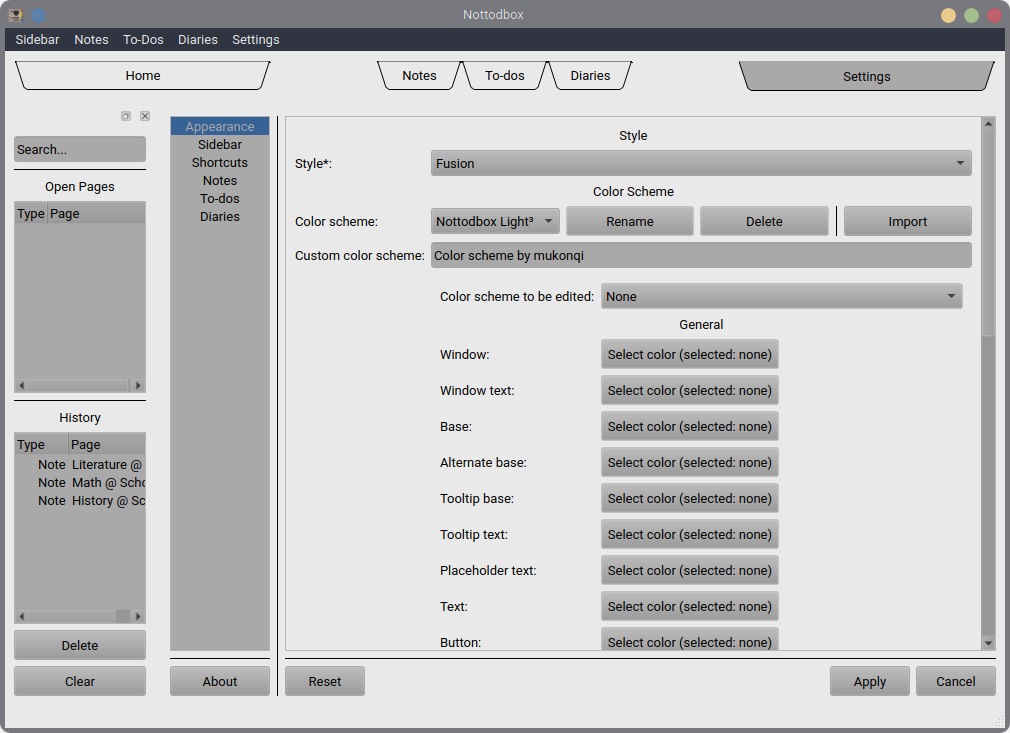
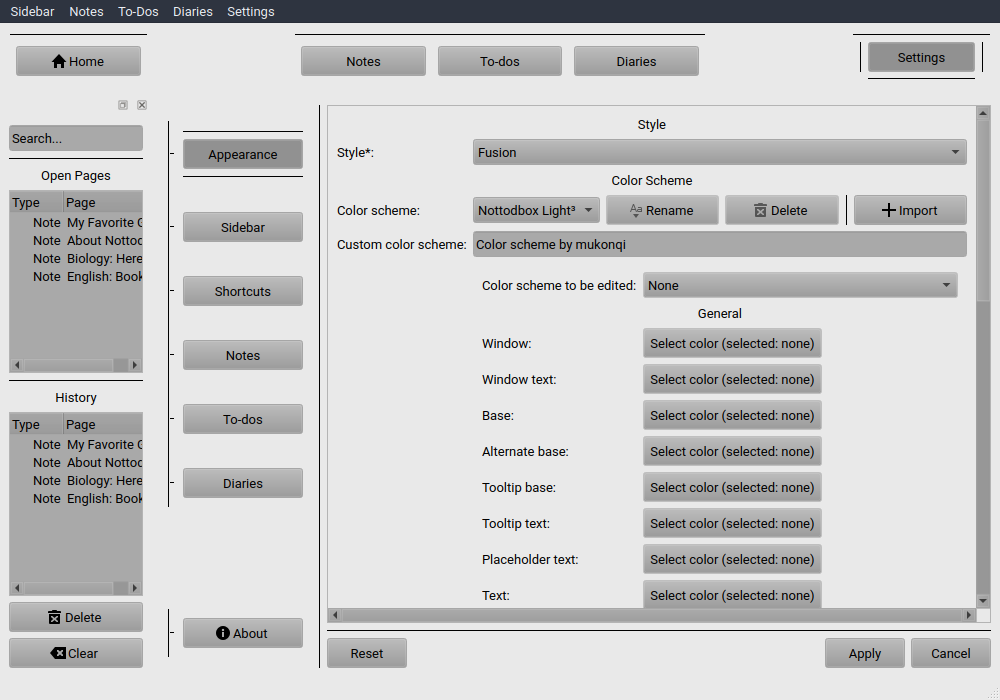
Make a screenshot helper

diff --git a/.github/scripts/screenshot.py b/.github/scripts/screenshot.py
@@ -1,0 +1,104 @@
+import os
+import sys
+import shutil
+import datetime
+from PySide6.QtCore import QSettings, QProcess
+
+sys.path.insert(1, os.path.join(os.path.dirname(os.path.dirname(os.path.dirname(__file__))), "nottodbox"))
+
+from consts import USER_DATABASES_DIR # type: ignore
+
+
+os.makedirs(USER_DATABASES_DIR, exist_ok=True)
+
+for file in os.listdir(USER_DATABASES_DIR):
+    file = os.path.join(USER_DATABASES_DIR, file)
+    
+    shutil.move(file, f"{file}.bak")
+    
+    
+from notes import NotesDB # type: ignore
+from todos import TodosDB # type: ignore
+from diaries import DiariesDB # type: ignore
+
+
+notes = [("My Favorite Games", "Blog"),
+         ("About Nottodbox - A Life Changer", "Blog"),
+         ("Biology: Hereditary Diseases", "School Projects"),
+         ("English: Book Report", "School Homeworks")]
+
+notesdb = NotesDB()
+
+notesdb.createParent("Blog")
+notesdb.createParent("School Projects")
+notesdb.createParent("School Homeworks")
+
+for name, table in notes:
+    notesdb.createChild(name, table)
+
+
+todosdb = TodosDB()
+
+todosdb.createParent("Nottodbox")
+todosdb.createChild("Make a custom tab bar for main window and settings", "Nottodbox")
+todosdb.createChild("Make a screenshot helper", "Nottodbox")
+todosdb.createChild("Make a page grid helper", "Nottodbox")
+todosdb.changeStatus("Make a screenshot helper", "Nottodbox")
+todosdb.changeStatus("Make a custom tab bar for main window and settings", "Nottodbox")
+
+
+diariesdb = DiariesDB()
+
+diariesdb.createChild(datetime.date.today().strftime("%d/%m/%Y"))
+diariesdb.saveChild("Hello my dear diary!\nI'm good, because writing diaries can make people happy.\nSee you tomorrow!", "", False, datetime.date.today().strftime("%d/%m/%Y"))
+
+
+settings = QSettings("io.github.mukonqi", "nottodbox")
+geometry = settings.value("mainwindow/geometry")
+state = settings.value("mainwindow/state")
+settings.setValue("mainwindow/geometry", "")
+settings.setValue("mainwindow/state", "")
+
+
+from __init__ import Application
+
+
+application = Application(sys.argv)
+list(application.mainwindow.settings.tabwidget.pages.keys())[0].widget().styles_combobox.setCurrentIndex(list(application.mainwindow.settings.tabwidget.pages.keys())[0].widget().styles_combobox.findText("Fusion"))
+application.setStyle("Fusion")
+list(application.mainwindow.settings.tabwidget.pages.keys())[0].widget().color_schemes_combobox.setCurrentIndex(list(application.mainwindow.settings.tabwidget.pages.keys())[0].widget().color_schemes_combobox.findText("Nottodbox Light³"))
+list(application.mainwindow.settings.tabwidget.pages.keys())[0].widget().loadPalette()
+application.exec()
+
+application.mainwindow.home.todos.expandAll()
+application.mainwindow.home.notes.expandAll()
+application.mainwindow.grab().save(os.path.join(os.path.dirname(os.path.dirname(__file__)), "images", "home.png"))
+
+application.mainwindow.notes.home.treeview.expandAll()
+for name, table in notes:
+    application.mainwindow.notes.home.child_options.open(False, name, table)
+application.mainwindow.notes.setCurrentIndex(0)
+application.mainwindow.grab().save(os.path.join(os.path.dirname(os.path.dirname(__file__)), "images", "notes.png"))
+
+application.mainwindow.tabwidget.setCurrentPage(2)
+application.mainwindow.todos.treeview.expandAll()
+application.mainwindow.grab().save(os.path.join(os.path.dirname(os.path.dirname(__file__)), "images", "todos.png"))
+
+application.mainwindow.tabwidget.setCurrentPage(3)
+application.mainwindow.grab().save(os.path.join(os.path.dirname(os.path.dirname(__file__)), "images", "diaries.png"))
+
+application.mainwindow.tabwidget.setCurrentPage(4)
+application.mainwindow.grab().save(os.path.join(os.path.dirname(os.path.dirname(__file__)), "images", "settings.png"))
+
+
+settings.setValue("mainwindow/geometry", geometry)
+settings.setValue("mainwindow/state", state)
+
+for file in os.listdir(USER_DATABASES_DIR):
+    if file.endswith(".bak"):
+        file = os.path.join(USER_DATABASES_DIR, file)
+    
+        shutil.move(file, file.removesuffix(".bak"))
+        
+
+sys.exit(0)

diff --git a/nottodbox/__init__.py b/nottodbox/__init__.py
@@ -76,28 +76,29 @@ class Application(QApplication):
         self.setDesktopFileName(USER_DESKTOP_FILE if USER_DESKTOP_FILE_FOUND else DESKTOP_FILE)
         self.setWindowIcon(QIcon.fromTheme(APP_ID, QIcon(ICON_FILE)))
         
-        window = MainWindow()
+        self.mainwindow = MainWindow()
         
         if args.index:
-            window.tabwidget.setCurrentPage(args.index - 1)
+            self.mainwindow.tabwidget.setCurrentPage(args.index - 1)
         
         elif args.page:
             if args.page == _("Home"):
-                window.tabwidget.setCurrentPage(0)
+                self.mainwindow.tabwidget.setCurrentPage(0)
             
             elif args.page == __("Notes"):
-                window.tabwidget.setCurrentPage(1)
+                self.mainwindow.tabwidget.setCurrentPage(1)
                 
             elif args.page == __("To-Dos"):
-                window.tabwidget.setCurrentPage(2)
+                self.mainwindow.tabwidget.setCurrentPage(2)
                 
             elif args.page == __("Diaries"):
-                window.tabwidget.setCurrentPage(3)
+                self.mainwindow.tabwidget.setCurrentPage(3)
                 
             elif args.page == __("Settings"):
-                window.tabwidget.setCurrentPage(4)
+                self.mainwindow.tabwidget.setCurrentPage(4)
                 
 
-application = Application(sys.argv)
+if __name__ == "__main__":
+    application = Application(sys.argv)
 
-sys.exit(application.exec())
+    sys.exit(application.exec())

diff --git a/nottodbox/todos.py b/nottodbox/todos.py
@@ -16,6 +16,7 @@
 # along with Nottodbox.  If not, see <https://www.gnu.org/licenses/>.
 
 
+import types
 import datetime
 from gettext import gettext as _
 from PySide6.QtCore import Slot
@@ -38,12 +39,14 @@ class TodosDB(DBForLists):
         if status == "completed":
             newstatus = "uncompleted"
             
-            self.widget.child_items[(name, table)][2].setText(_("Not completed yet"), name) 
+            if self.widget == types.UnionType:
+                self.widget.child_items[(name, table)][2].setText(_("Not completed yet"), name) 
         
         elif status == "uncompleted": 
             newstatus = "completed"
             
-            self.widget.child_items[(name, table)][2].setText(date, name) 
+            if self.widget == types.UnionType:
+                self.widget.child_items[(name, table)][2].setText(date, name) 
             
         self.cur.execute(
             f"update '{table}' set status = ?, completion = ? where name = ?", (newstatus, date, name))
@@ -115,7 +118,8 @@ class TodosDB(DBForLists):
             if table == "__main__":
                 date = self.getModification(name, table)
                 
-                self.widget.table_items[name][2].setText(date, name)
+                if self.widget == types.UnionType:
+                    self.widget.table_items[name][2].setText(date, name)
                 
             return True
         

diff --git a/nottodbox/notes.py b/nottodbox/notes.py
@@ -16,6 +16,7 @@
 # along with Nottodbox.  If not, see <https://www.gnu.org/licenses/>.
 
 
+import types
 import datetime
 from gettext import gettext as _
 from PySide6.QtCore import Slot
@@ -111,11 +112,12 @@ class NotesDB(DBForDocuments, DBForLists):
         if super().updateModification(name, table, date):
             date = self.getModification(name, table)
             
-            if table == "__main__":
-                self.widget.table_items[name][2].setText(date, name)
-                
-            elif table != "__main__":
-                self.widget.child_items[(name, table)][2].setText(date, name)
+            if self.widget == types.UnionType:
+                if table == "__main__":
+                    self.widget.table_items[name][2].setText(date, name)
+                    
+                elif table != "__main__":
+                    self.widget.child_items[(name, table)][2].setText(date, name)
                 
             return True
         

diff --git a/nottodbox/mainwindow.py b/nottodbox/mainwindow.py
@@ -37,7 +37,7 @@ class MainWindow(QMainWindow):
         
         self.tabbar = QDockWidget(self)
         self.tabbar.setObjectName("TabBar")
-        self.tabbar.setFixedHeight(self.tabbar.height() * 2.5)
+        self.tabbar.setFixedHeight(self.tabbar.height() * 2.25)
         self.tabbar.setFeatures(QDockWidget.DockWidgetFeature.NoDockWidgetFeatures)
         self.tabbar.setAllowedAreas(Qt.DockWidgetArea.TopDockWidgetArea)
         self.tabbar.setTitleBarWidget(QWidget(self.tabbar))

diff --git a/README.md b/README.md
@@ -13,7 +13,6 @@
 <summary>Show / Hide</summary>
 
 ![Home](/.github/images/home.png)<br>
-![Home (Dark)](/.github/images/home-dark.png)<br>
 ![Notes](/.github/images/notes.png)<br>
 ![Todos](/.github/images/todos.png)<br>
 ![Diaries](/.github/images/diaries.png)<br>
